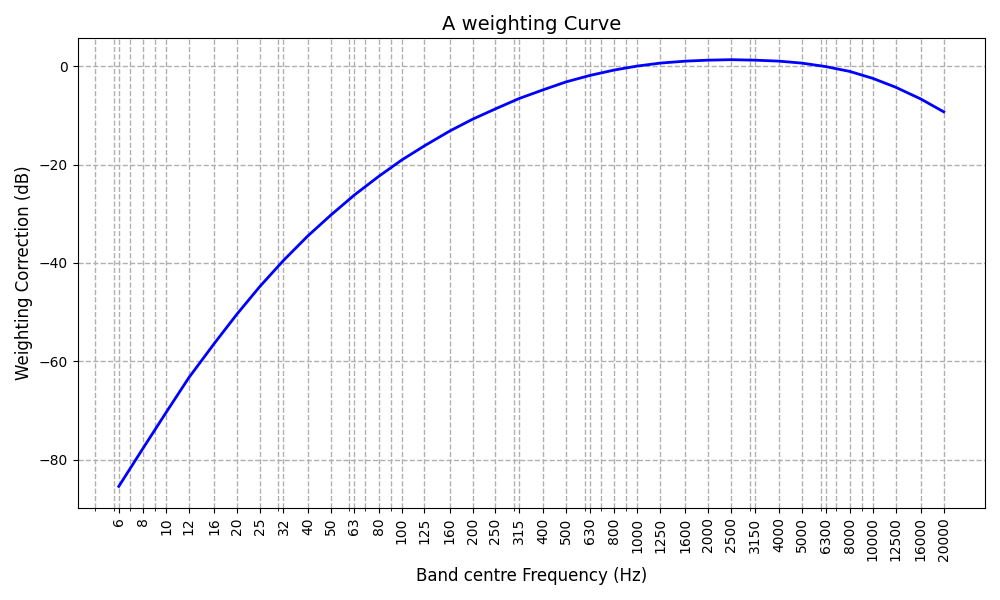
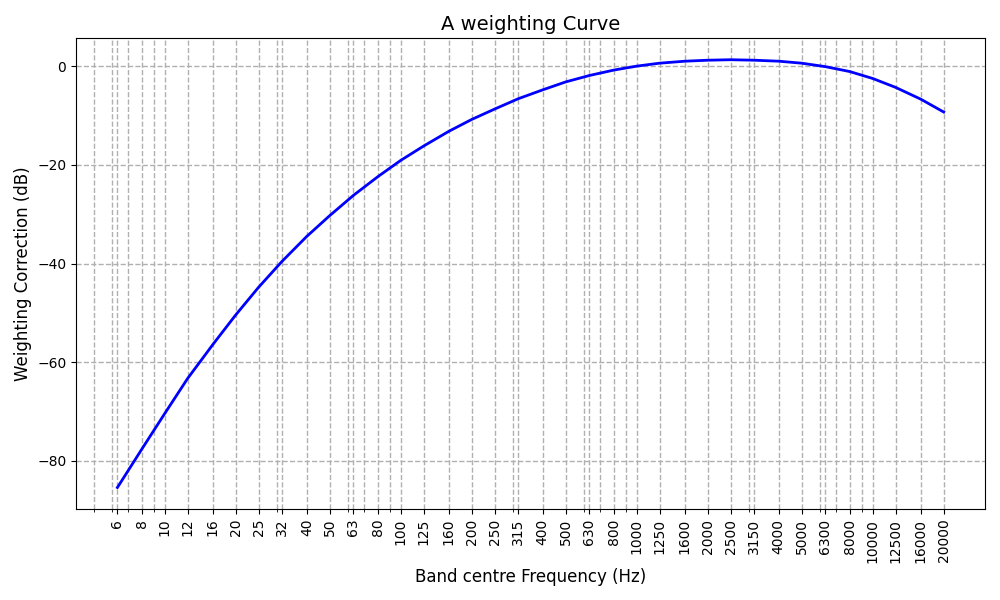
update README and add Z-weighting curve to main.py

diff --git a/main.py b/main.py
@@ -13,6 +13,7 @@ z_weighting_curve = np.array(json_data["z_weighting_curve"])
 
 plot_weighting_curve(central_frequencies, a_weighting_curve, "a_weighting")
 plot_weighting_curve(central_frequencies, c_weighting_curve, "c_weighting")
+plot_weighting_curve(central_frequencies, z_weighting_curve, "z_weighting")
 plot_all_weighting_curves(
     central_frequencies, a_weighting_curve, c_weighting_curve, z_weighting_curve
 )

diff --git a/README.md b/README.md
@@ -1,22 +1,22 @@
-<h1> Acoustic Weighting Curves </h1>
+<h1> Acoustic Frequency Weighting Curves </h1>
 
-Project that graphs the frequency weighting curves most commonly used in acoustics.
+Project for modeling and visualizing the frequency weighting curves most commonly used in acoustics.
 
 <h2> Table of Contents</h2>
 
-- [Intro](#intro)
-- [Install](#install)
 - [A-Weighting curve](#a-weighting-curve)
 - [C-Weighting curve](#c-weighting-curve)
+- [Z-Weighting curve](#z-weighting-curve)
 - [Weighting curves](#weighting-curves)
+- [References](#references)
 
 ## Intro
 
-The sound pressure measurement are weighted to represent the human ear’s sensitivity as a function of frequencies.
+Sound pressure levels are frequency-weighted to approximate the sensitivity of human hearing as a function of frequency.
 
 Three commonly used acoustic weighting curves are A, C, and Z.
 
-Negative weighting values are associated with low-frequency sounds in the range of 20 Hz to 1 kHz, as the human ear is much less sensitive to low-frequency than higher-frequency sounds in the range of 1 kHz to 4 kHz
+Negative weighting values indicate attenuation applied to low-frequency components, reflecting the lower sensitivity of human hearing at low frequencies compared to the mid-frequency range between approximately 1 kHz and 4 kHz.
 
 ## Install
 
@@ -38,12 +38,32 @@ Negative weighting values are associated with low-frequency sounds in the range 
 
 ## A-Weighting curve
 
+The A-weighting curve approximates the sensitivity of human hearing at moderate sound pressure levels and is widely used in environmental and occupational noise measurements.
+
 <img src="./figures/a_weighting_curve.png" alt="A-Weighting curve image"/>
 
 ## C-Weighting curve
 
+The C-weighting curve provides a flatter frequency response and is commonly used for high-level sound measurements, peak sound pressure evaluation, and low-frequency analysis.
+
 <img src="./figures/c_weighting_curve.png" alt="C-Weighting curve image"/>
+
+## Z-Weighting curve
+
+The Z-weighting curve represents a flat frequency response with no intentional weighting applied across the audible frequency spectrum.
+
+<img src="./figures/z_weighting_curve.png" alt="Z-Weighting curve image"/>
 
 ## Weighting curves
 
 <img src="./figures/weighting_curves.png" alt="Weighting curves image"/>
+
+# References
+
+- IEC 61672-1. _Electroacoustics – Sound Level Meters – Part 1: Specifications_.
+
+- Beranek, L. L. _Acoustics_. Acoustical Society of America.
+
+- Bies, D. A.; Hansen, C. H.; Howard, C. Q. _Engineering Noise Control: Theory and Practice_. CRC Press.
+
+- Gómez Acosta, J. J. _Projeto e Desenvolvimento de um Sonômetro de Baixo Custo_. Master's Dissertation, Pontifícia Universidade Católica do Rio de Janeiro (PUC-Rio), 2023.
